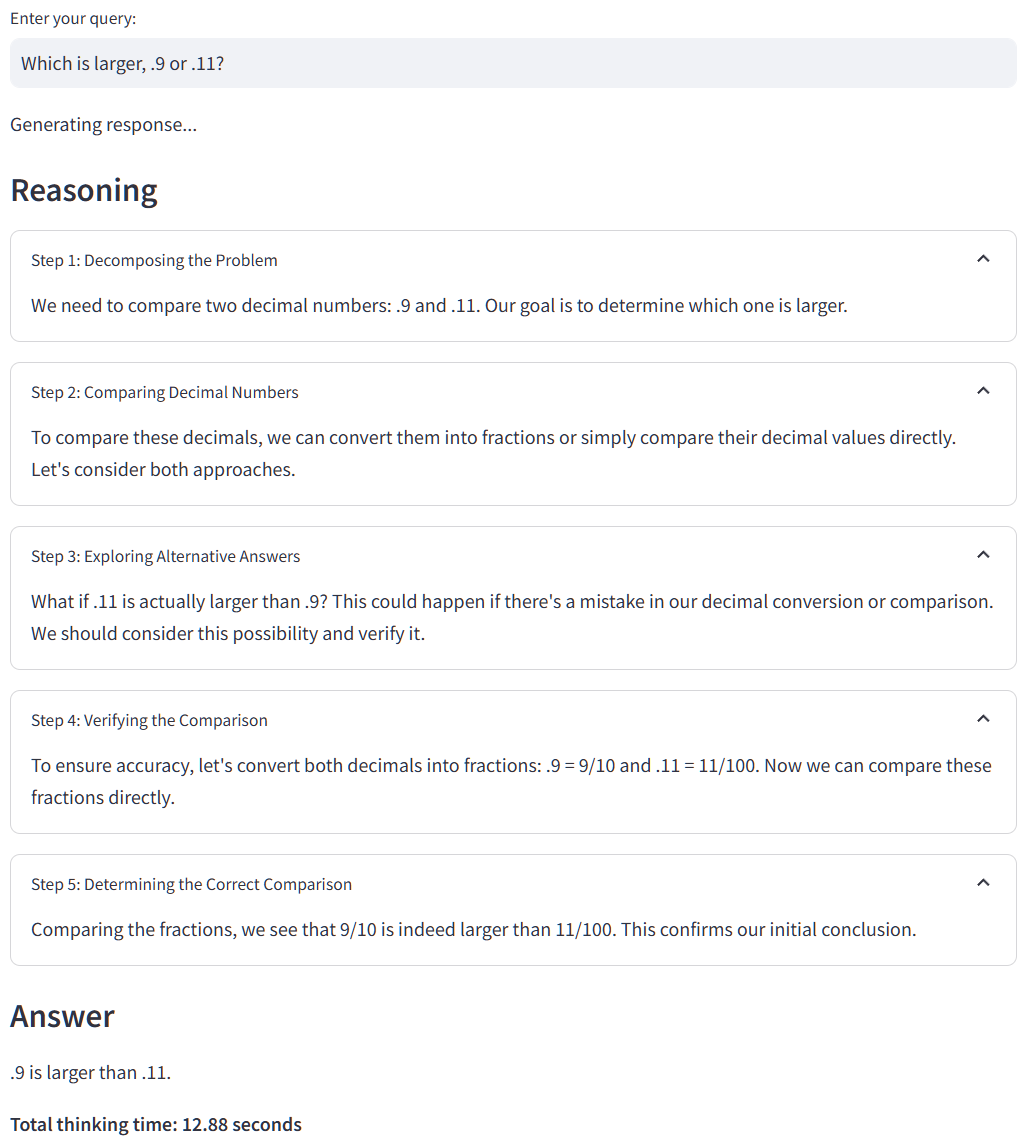
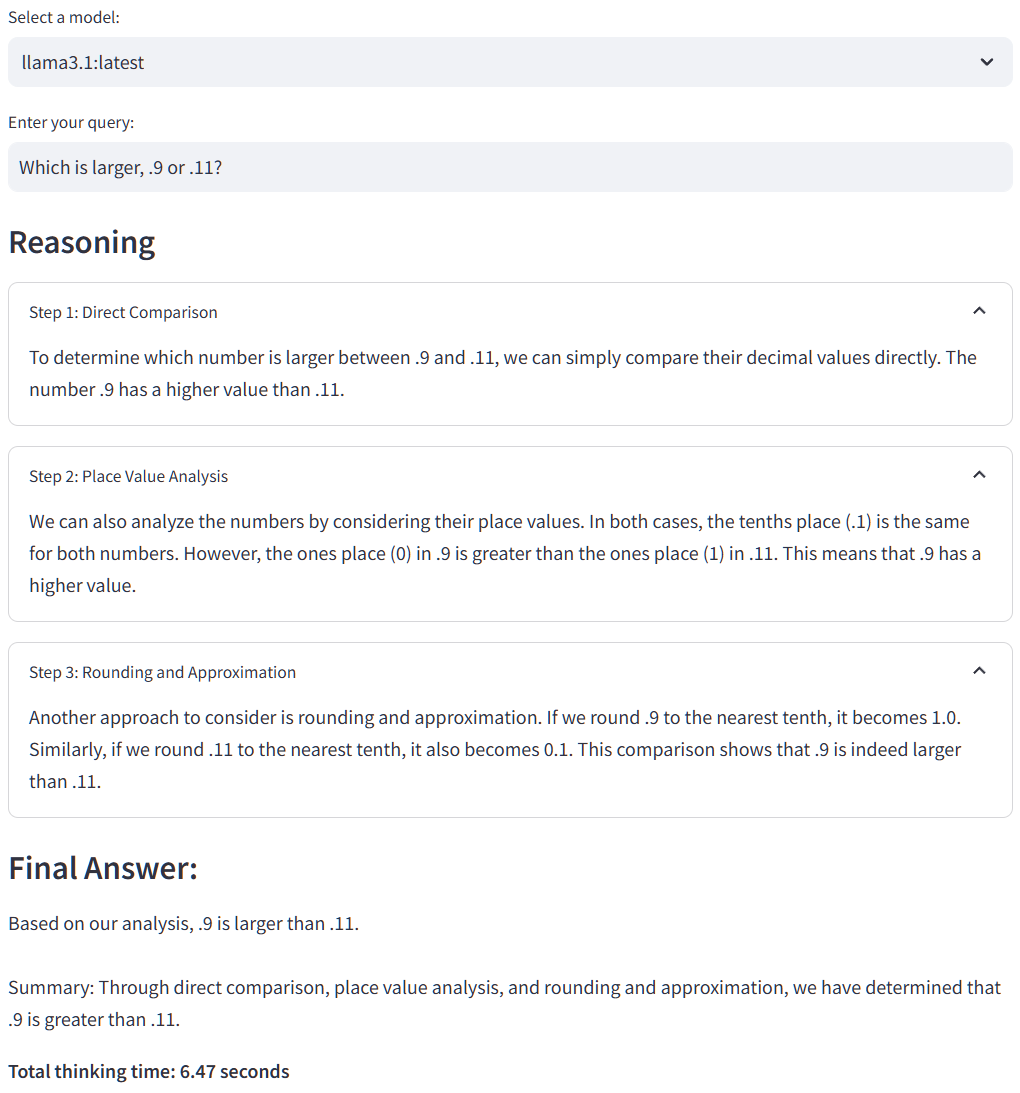
update README

diff --git a/README.md b/README.md
@@ -4,21 +4,31 @@ o1lama is a fun experiment designed to enhance the reasoning capabilities of lar
 ## About
 o1lama is an toy project that runs Llama 3.1 **7B** locally using Ollama. It was forked from [https://github.com/bklieger-groq/g1](https://github.com/bklieger-groq/g1) which runs Llama 3.1 **70B** models on groq for speed. This experiment demonstrates the power of prompted reasoning in visualized steps similar in appearance to o1. It obviously is not intended as a comparison to or full replication of o1, which employs different techniques.
 
+## Other models
+O1lama is now a bit more flexible and will let you select from other models besides Llama 3.1 if you have them installed locally. I've experimented using Mistal Nemo 12B with fun results.
+
 ## Examples:
 
 ### How many 'R's are in the word strawberry?
 
-O1lama gets the wrong answer, but tries to reason. It's interesting that it's blind to the 3rd "r" in Step 3.
+**Llama-3.1 7B** gets it wrong
 
-![Strawberry example](examples/strawberry.png)
+![Strawberry example using Llama 3.1](examples/strawberry.png)
 
+**Mistral-Nemo 12B** gets it right
+
+![Strawberry example using Mistral-Nemo](examples/strawberry-mistral-nemo.png)
 ---
 
 ### Which is larger, .9 or .11?
 
-O1lama gets this one right.
+**Llama-3.1 7B** gets it right
 
-![0.9 or 0.11 example](examples/math.png)
+![0.9 or 0.11 example using Llama 3.1](examples/math.png)
+
+**Mistral-Nemo 12B** confidently gets it wrong three ways
+
+![0.9 or 0.11 example using Mistral-Nemo](examples/math-mistral-nemo.png)
 
 ### Quickstart
 
